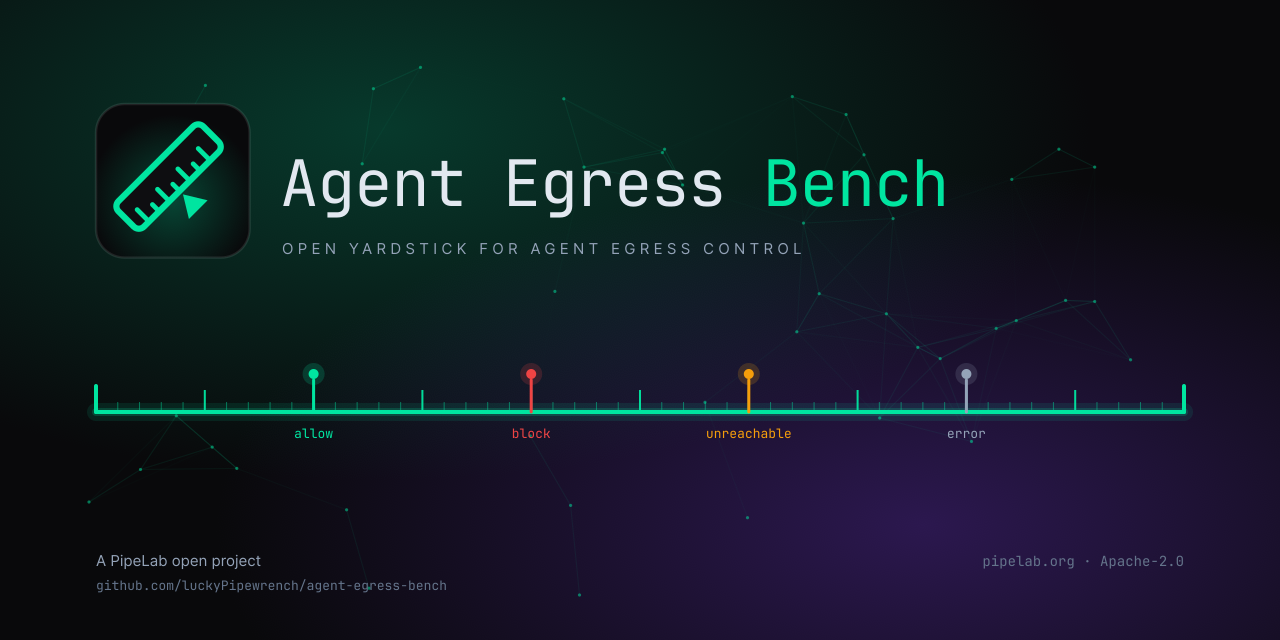
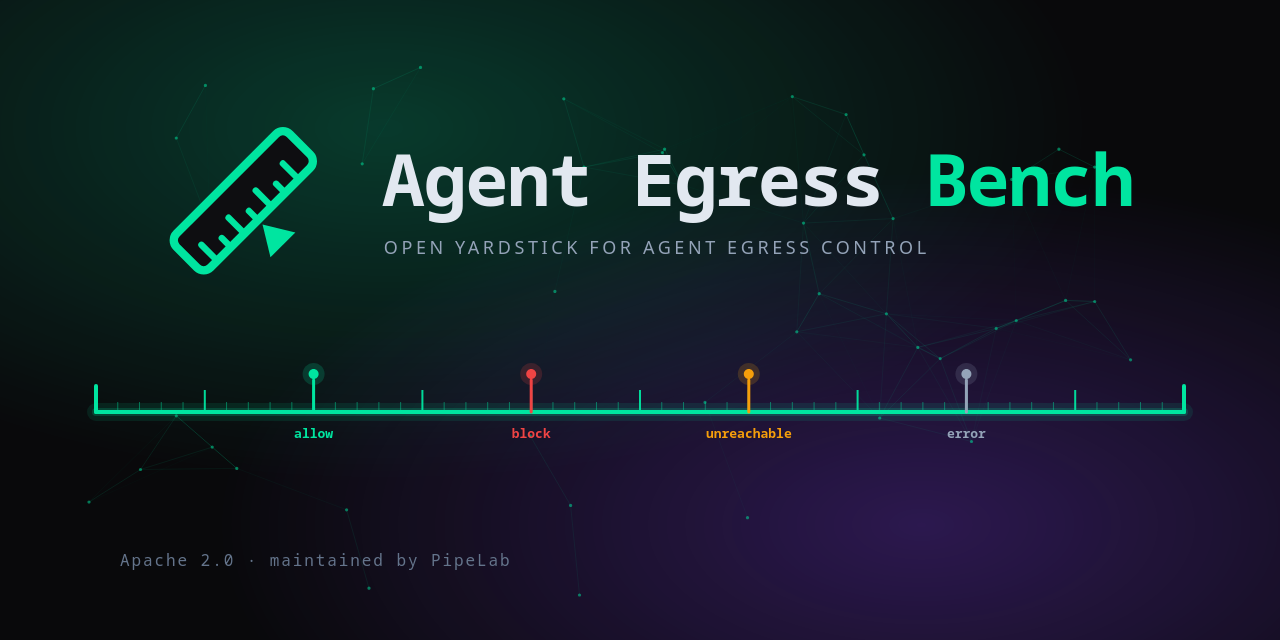
fix(brand): align Agent Egress Bench identity assets

diff --git a/scripts/render_diagrams.py b/scripts/render_diagrams.py
@@ -59,6 +59,13 @@ BRAND = {
     "info": "#38bdf8",
 }
 
+# Family social-card footer. Same string, type, and position as Pipelock Rules,
+# so the three cards read as one house rather than three layouts.
+CARD_FOOTER = "Apache 2.0  ·  maintained by PipeLab"
+CARD_FOOTER_X = 120
+CARD_FOOTER_Y = 566
+CARD_FOOTER_SIZE = 16
+
 # These are contrast adaptations for text and status marks on GitHub's white
 # canvas. Filled bars keep the locked accent, with dark token text on top.
 LIGHT_THEME_DERIVATIVES = {"#008f66", "#dc2626", "#b45309", "#0284c7"}
@@ -390,6 +397,60 @@ def _ruler_glyph(a, bg):
     out.append("  </g>")
     return out
 
+# Type metrics for the monospace wordmark. Every glyph advances the same width,
+# so the wordmark's extent is exact. TRACKING is subtracted because the text is
+# set with negative letter-spacing.
+MONO_ADVANCE = 0.6
+TRACKING = 0.02
+ASCENDER = 0.75
+DESCENDER = 0.21
+
+WORDMARK_LEAD = "Agent Egress "
+WORDMARK_ACCENT = "Bench"
+
+
+def lockup() -> str:
+    """Mark and wordmark on one line, for the README header.
+
+    Sized from the wordmark rather than a typed canvas width. A canvas wider
+    than its artwork looks off-centre the moment the image is centred on a
+    page, because the empty margin is centred along with the ink.
+    """
+    a = BRAND["accent"]
+    margin, mark_size, gap, size = 20, 96, 26, 44
+    text_x = margin + mark_size + gap
+    word = WORDMARK_LEAD + WORDMARK_ACCENT
+    text_w = round(len(word) * size * (MONO_ADVANCE - TRACKING), 2)
+    w = round(text_x + text_w + margin, 2)
+    h = margin * 2 + mark_size - 24
+
+    # Centre the wordmark's visual band on the mark's centre. Aligning the
+    # baseline instead would hang the word low, because a baseline sits under
+    # the letters rather than through them.
+    mark_centre = 10 + mark_size / 2
+    baseline = round(mark_centre - (ASCENDER + DESCENDER) * size / 2 + ASCENDER * size, 2)
+    scale = round(mark_size / 64, 6)
+
+    # No tile behind the mark. A rounded tile gives a mark a defined edge where
+    # it lands on a background nobody controls, which is an avatar or a
+    # favicon. On a page the tile boxes the mark in beside a bare wordmark, and
+    # the sibling repository's lockup carries no tile either.
+    out = [f'<svg xmlns="http://www.w3.org/2000/svg" width="{w}" height="{h}" '
+           f'viewBox="0 0 {w} {h}" role="img" '
+           f'aria-label="Agent Egress Bench logo lockup">',
+           f'  <g transform="translate({margin} 10) scale({scale})">']
+    out += [f"  {line}" for line in _ruler_glyph(a, BRAND["bg_elevated"])]
+    out.append("  </g>")
+    # Two-tone: the accent lands on the word that distinguishes this repository
+    # from its siblings, matching pipelock-rules next door.
+    out.append(f'  <text x="{text_x}" y="{baseline}" font-family="{MONO}" font-size="{size}" '
+               f'font-weight="700" letter-spacing="-{TRACKING}em" xml:space="preserve">'
+               f'<tspan fill="{BRAND["text"]}">{WORDMARK_LEAD}</tspan>'
+               f'<tspan fill="{a}">{WORDMARK_ACCENT}</tspan></text>')
+    out.append("</svg>")
+    return "\n".join(out) + "\n"
+
+
 def logo() -> str:
     a = BRAND["accent"]
     out = ['<svg xmlns="http://www.w3.org/2000/svg" width="256" height="256" viewBox="0 0 64 64" role="img" '
@@ -438,12 +499,16 @@ def social_preview() -> str:
     against a 70 bottom. Layouts that moved the ruler or the tagline were built
     and rendered, and each one simply relocated the void; growing the elements
     is what absorbs it.
+
+    The footer is the family line, left, one place: license then maintainer.
+    An earlier card split those across left, right, and a second row, so this
+    card and its sibling did not read as one house.
     """
     a, w, h = BRAND["accent"], 1280, 640
     out = [
         f'<svg xmlns="http://www.w3.org/2000/svg" width="{_n(w)}" height="{_n(h)}" viewBox="0 0 {w} {h}" '
         'role="img" aria-label="Agent Egress Bench, the open yardstick for agent egress control. '
-        'A PipeLab open project.">',
+        f'{CARD_FOOTER}.">',
         "  <defs>",
         '    <radialGradient id="teal" cx="30%" cy="20%" r="55%">',
         f'      <stop offset="0%" stop-color="{a}" stop-opacity="0.22"/>',
@@ -477,10 +542,29 @@ def social_preview() -> str:
     net.append("  </g>")
     out += net
 
-    # Logomark, scaled 64 -> 154. See the vertical rhythm note in social_preview.
-    out.append('  <g transform="translate(96 104) scale(2.4)">')
-    out.append(f'    <rect width="64" height="64" rx="12" fill="{BRAND["bg"]}" stroke="#ffffff" stroke-opacity="0.10"/>')
-    out.append('    <rect width="64" height="64" rx="12" fill="url(#mark)"/>')
+    # Identity block: mark, then wordmark, centred on the card as a unit.
+    #
+    # Both used to start at a fixed x=96, which left the block sitting left of
+    # centre while the sibling card centred its own. The wordmark is monospace,
+    # so its width is arithmetic rather than an estimate, and the block can be
+    # placed from the centre outward.
+    #
+    # No tile behind the mark. A rounded tile gives a mark an edge where it
+    # lands on a background nobody controls, which is an avatar or a favicon.
+    # Here the background is the card's own, so the tile only boxed the mark in.
+    mark_scale = 3.2
+    mark_w = 64 * mark_scale
+    mark_gap = 30.4
+    # 72, not 86: the sibling card's name is shorter, so the same point size
+    # would make this line the loudest thing on a card whose hero is the ruler.
+    # 72 is the step that matches optical weight without crowding the ticks.
+    title_size = 72
+    word = "Agent Egress Bench"
+    title_w = len(word) * title_size * 0.58
+    block_x = round((1280 - (mark_w + mark_gap + title_w)) / 2, 2)
+    title_x = round(block_x + mark_w + mark_gap, 2)
+
+    out.append(f'  <g transform="translate({_n(block_x)} 104) scale({mark_scale})">')
     out += ["  " + line for line in _ruler_glyph(a, BRAND["bg_elevated"])]
     out.append("  </g>")
 
@@ -492,7 +576,6 @@ def social_preview() -> str:
     # arithmetic looked correct. Letting the text engine lay out one run removes
     # the estimate rather than correcting it, and there is nothing left to
     # centre by hand.
-    title_x, title_size = 280, 64
     # xml:space="preserve" is load-bearing: without it the renderer collapses the
     # trailing space inside the first tspan and the wordmark reads "EgressBench".
     out.append(f'  <text x="{_n(title_x)}" y="206" font-family="{MONO}" '
@@ -500,8 +583,8 @@ def social_preview() -> str:
                f'xml:space="preserve">'
                f'<tspan fill="{BRAND["text"]}">Agent Egress </tspan>'
                f'<tspan fill="{a}">Bench</tspan></text>')
-    out.append(_text(282, 254, "OPEN YARDSTICK FOR AGENT EGRESS CONTROL", fill=BRAND["muted"], size=15,
-                     family=SANS, spacing="0.286em"))
+    out.append(_text(title_x + 2, 254, "OPEN YARDSTICK FOR AGENT EGRESS CONTROL", fill=BRAND["muted"], size=18,
+                     family=SANS, spacing="0.20em"))
 
     out += _ruler(96, 1184, 412, a, divisions=50, major_every=5, tick=10, big=22, width=4, cap_h=26, bold=True, labels=(
         (0.2, "allow", a),
@@ -510,11 +593,8 @@ def social_preview() -> str:
         (0.8, "error", BRAND["muted"]),
     ))
 
-    out.append(_text(96, 566, "A PipeLab open project", fill=BRAND["muted"], size=15, family=SANS, weight=500))
-    out.append(_text(1184, 566, "pipelab.org  ·  Apache-2.0", fill=BRAND["dim"], size=14, family=MONO,
-                     anchor="end"))
-    out.append(_text(96, 590, "github.com/luckyPipewrench/agent-egress-bench", fill=BRAND["dim"], size=13,
-                     family=MONO))
+    out.append(_text(CARD_FOOTER_X, CARD_FOOTER_Y, CARD_FOOTER, fill=BRAND["dim"],
+                     size=CARD_FOOTER_SIZE, family=MONO, spacing="0.12em"))
     out.append("</svg>")
     return "\n".join(out) + "\n"
 
@@ -1235,6 +1315,7 @@ DIAGRAMS = {
 SINGLES = {
     "social-preview.svg": social_preview,
     "logo.svg": logo,
+    "lockup.svg": lockup,
     "terminal-doctor.svg": terminal_doctor,
 }
 # Hand-exported rasters, each pinned to the SVG it came from.

diff --git a/scripts/render_diagrams_test.py b/scripts/render_diagrams_test.py
@@ -182,6 +182,42 @@ class WellFormedTest(unittest.TestCase):
                     or "Agent Egress" in "".join(node.itertext())]
         self.assertEqual(len(carrying), 1, "the wordmark spans more than one text element")
 
+    def test_the_hero_wordmark_is_sized_to_the_family_card(self):
+        # 72 is the optical match to Pipelock Rules at 86: this name is longer,
+        # so the same point size would dominate a card whose hero is the ruler.
+        root = ElementTree.fromstring(generator.social_preview())
+        wordmark = next(
+            node for node in root.iter(SVG + "text")
+            if "Agent Egress" in "".join(node.itertext())
+        )
+        self.assertEqual(wordmark.get("font-size"), "72")
+
+    def test_the_hero_footer_is_the_family_line(self):
+        """License and maintainer sit in one place, same as the sibling card.
+
+        An earlier layout split those across left, right, and a GitHub URL
+        under them, so three cards from one house did not share a footer.
+        """
+        hero = generator.social_preview()
+        self.assertIn(generator.CARD_FOOTER, hero)
+        self.assertNotIn("A PipeLab open project", hero)
+        self.assertNotIn("pipelab.org  ·  Apache-2.0", hero)
+        self.assertNotIn("github.com/luckyPipewrench/agent-egress-bench",
+                         re.sub(r"<[^>]+>", " ", hero))
+        root = ElementTree.fromstring(hero)
+        footers = [
+            node for node in root.iter(SVG + "text")
+            if generator.CARD_FOOTER in "".join(node.itertext())
+        ]
+        self.assertEqual(len(footers), 1)
+        footer = footers[0]
+        self.assertEqual(footer.get("x"), str(generator.CARD_FOOTER_X))
+        self.assertEqual(footer.get("y"), str(generator.CARD_FOOTER_Y))
+        self.assertEqual(footer.get("font-size"), str(generator.CARD_FOOTER_SIZE))
+        self.assertEqual(footer.get("font-family"), generator.MONO)
+        self.assertEqual(footer.get("letter-spacing"), "0.12em")
+        self.assertEqual(footer.get("fill"), generator.BRAND["dim"])
+
     def test_every_explicit_asset_color_is_a_brand_token_or_light_adaptation(self):
         approved = (set(generator.BRAND.values()) | generator.LIGHT_THEME_DERIVATIVES
                     | generator.OVERLAY_BASES)
@@ -355,9 +391,30 @@ class CommittedAssetTest(unittest.TestCase):
                 self.assertIn(f"assets/diagram-{name}-dark.svg", self.readme)
                 self.assertIn(f"assets/diagram-{name}-light.svg", self.readme)
 
-    def test_the_readme_embeds_the_hero_and_terminal(self):
-        self.assertIn("assets/social-preview.svg", self.readme)
+    def test_the_readme_leads_with_the_lockup_not_the_social_card(self):
+        """The header is a mark and a wordmark, matching the sibling repository.
+
+        A social card is built for a link preview, where it stands alone at a
+        fixed size with nothing around it. Leading the README with it makes a
+        large image do the job a single line should do, and it was why the two
+        sibling repositories introduced themselves differently. The card is
+        still generated and still uploaded as the repository's social preview;
+        it is simply not the page header.
+        """
+        self.assertIn("assets/lockup.svg", self.readme)
+        self.assertNotIn("assets/social-preview.svg", self.readme)
+        header = self.readme.split("</p>", 1)[0]
+        self.assertIn("assets/lockup.svg", header,
+                      "the lockup must be the first thing on the page")
+
+    def test_the_readme_embeds_the_terminal(self):
         self.assertIn("assets/terminal-doctor.svg", self.readme)
+
+    def test_the_social_card_is_still_produced(self):
+        # No longer embedded, but still the repository's link preview, so a
+        # change that stopped generating it should fail rather than pass
+        # quietly now that no README reference points at it.
+        self.assertIn("social-preview.svg", {path.name for path in generator.build()})
 
     def test_every_png_matches_its_source(self):
         self.assertEqual(generator.png_problems(), [])

diff --git a/README.md b/README.md
@@ -1,16 +1,21 @@
-<p align="center">
-  <img src="assets/social-preview.svg" alt="Agent Egress Bench: the open yardstick for agent egress control. A PipeLab open project." width="100%">
-</p>
+<h1 align="center">
+  <img src="assets/lockup.svg" alt="Agent Egress Bench" width="440">
+</h1>
 
 <p align="center">
   <a href="https://github.com/luckyPipewrench/agent-egress-bench/actions/workflows/validate.yaml"><img src="https://github.com/luckyPipewrench/agent-egress-bench/actions/workflows/validate.yaml/badge.svg" alt="Validate Cases"></a>
   <a href="https://github.com/luckyPipewrench/agent-egress-bench/actions/workflows/security.yaml"><img src="https://github.com/luckyPipewrench/agent-egress-bench/actions/workflows/security.yaml/badge.svg" alt="Security"></a>
-  <a href="https://github.com/luckyPipewrench/agent-egress-bench/actions/workflows/pipelock.yaml"><img src="https://github.com/luckyPipewrench/agent-egress-bench/actions/workflows/pipelock.yaml/badge.svg" alt="Pipelock Scan"></a>
+  <a href="https://github.com/luckyPipewrench/agent-egress-bench/actions/workflows/pipelock.yaml"><img src="https://github.com/luckyPipewrench/agent-egress-bench/actions/workflows/pipelock.yaml/badge.svg" alt="Pipelock self-scan"></a>
   <a href="https://codecov.io/gh/luckyPipewrench/agent-egress-bench"><img src="https://codecov.io/gh/luckyPipewrench/agent-egress-bench/graph/badge.svg" alt="Coverage"></a>
   <a href="https://scorecard.dev/viewer/?uri=github.com/luckyPipewrench/agent-egress-bench"><img src="https://api.scorecard.dev/projects/github.com/luckyPipewrench/agent-egress-bench/badge" alt="OpenSSF Scorecard"></a>
   <a href="https://go.dev/dl/"><img src="https://img.shields.io/badge/Go-1.25%2B-00e5a0?logo=go&logoColor=white&labelColor=0e0e11" alt="Go 1.25+"></a>
   <a href="LICENSE"><img src="https://img.shields.io/badge/License-Apache_2.0-00e5a0?labelColor=0e0e11" alt="License: Apache 2.0"></a>
   <a href="https://discord.gg/badNfhGKTc"><img src="https://img.shields.io/badge/Discord-Join-5865F2?logo=discord&logoColor=white&labelColor=0e0e11" alt="Discord"></a>
+</p>
+
+<p align="center">
+  An open, tool-neutral yardstick maintained by <a href="https://pipelab.org">PipeLab</a>, who also build <a href="https://github.com/luckyPipewrench/pipelock">Pipelock</a>.
+  It publishes no ranking and awards no mark, and anyone may publish a result that reflects badly on Pipelock. See <a href="#governance">Governance</a>.
 </p>
 
 <picture>
